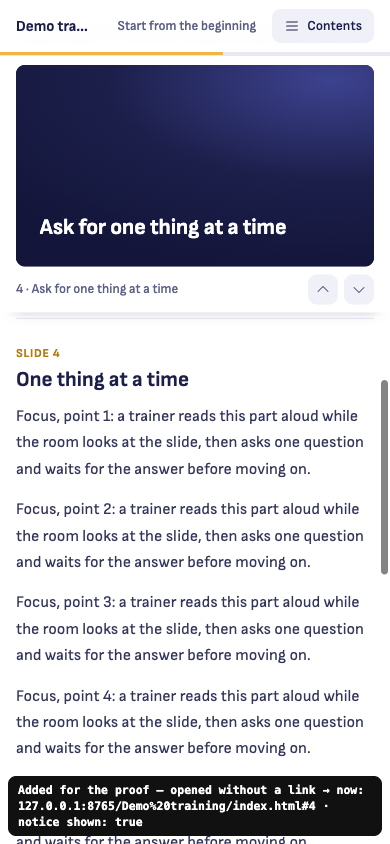
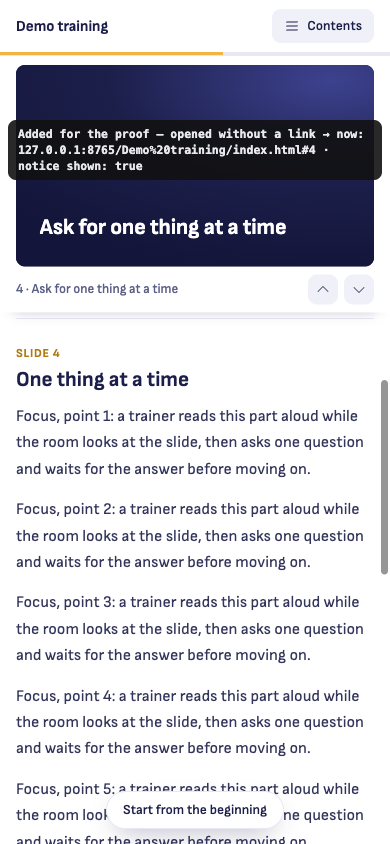
Decks page place: on a phone the notice is a pill at the bottom centre
The Experience lead's fold-in (decks README, small details 7): under 600 px "Start
from the beginning" leaves the bar, so the client's name stays whole, and shows as a
small pill at the bottom centre above the safe area. The same element, so the same
5 s and the same hold. The bar's backdrop blur would make it the pill's containing
block, so on a phone the bar is plain white (the slide's white band sits under it).
Test for the CSS; the phone shot retaken.

diff --git a/extensions/ritemark/src/decks/page/pageHtml.test.ts b/extensions/ritemark/src/decks/page/pageHtml.test.ts
@@ -15,7 +15,7 @@ import { BUILT_IN_THEME } from '../deckTheme';
 import { cssReferences, pageReferences, scriptBuildsReferences } from '../../publish/references';
 import { scanText } from '../../publish/secretScan';
 import { PAGE_FONTS } from './pageFile';
-import { DIGEST_META, PAGE_CSP, handoutHtml, isSlideOnly, pageHtml, pictureAddress, pictureFile, sanitizeHtml, type PageAssets, type PictureFrom } from './pageHtml';
+import { DIGEST_META, PAGE_CSP, PAGE_CSS, handoutHtml, isSlideOnly, pageHtml, pictureAddress, pictureFile, sanitizeHtml, type PageAssets, type PictureFrom } from './pageHtml';
 import { PAGE_SCRIPT } from './pageScript';
 import { deckDigest, publicDeck } from './publicDeck';
 import { PRIVATE_DECK, PRIVATE_WORDS, PUBLIC_WORDS } from './testing/privateDeck';
@@ -101,6 +101,17 @@ assert.equal(root.querySelector('#text')!.getAttribute('data-place')!.replace('r
 const restart = root.querySelector('.top #restart')!;
 assert.equal(restart.text, 'Start from the beginning');
 assert.ok(restart.hasAttribute('hidden') && restart.getAttribute('type') === 'button');
+// Under 600 px the notice leaves the bar (the client's name stays whole): a pill at the bottom centre, above the safe area.
+{
+  const phone = /@media \(max-width: 599px\) \{([\s\S]*?)\n\}/.exec(PAGE_CSS);
+  assert.ok(phone, 'the page has a phone rule for the notice');
+  const pill = /\.restart \{([^}]*)\}/.exec(phone![1])![1];
+  for (const rule of ['position: fixed', 'left: 50%', 'transform: translateX(-50%)', 'bottom: calc(16px + env(safe-area-inset-bottom, 0px))', 'border-radius: 18px']) assert.ok(pill.includes(rule), rule);
+  // The bar's backdrop filter would make it the pill's containing block (the pill would sit in the bar): none there.
+  assert.match(phone![1], /\.top \{[^}]*backdrop-filter: none/);
+  // At 600 px and up it stays in the bar.
+  assert.ok(!/\.restart \{[^}]*position: fixed/.test(PAGE_CSS.replace(phone![0], '')), 'only the phone rule takes it out of the bar');
+}
 // A prompt that shows a comment shows it as words.
 assert.ok(html.includes('&lt;!-- a prompt that shows a comment stays as written --&gt;'));
 

diff --git a/extensions/ritemark/src/decks/page/pageHtml.ts b/extensions/ritemark/src/decks/page/pageHtml.ts
@@ -508,6 +508,14 @@ body.bl .stage { border-right: 1px solid var(--line); padding-right: 40px; }
   .toc { top: 60px; }
   body.bl .stage { border-right: 0; padding-right: 16px; }
 }
+/* On a phone (the decks README, small details 7): the notice leaves the bar, so the client's name stays whole, and is a
+   small pill at the bottom centre, above the safe area. Same 5 s, same hold. */
+@media (max-width: 599px) {
+  /* The bar's blur would hold a fixed child inside the bar; under it on a phone is the slide's white band anyway. */
+  .top { -webkit-backdrop-filter: none; backdrop-filter: none; background: #fff; }
+  .restart { position: fixed; left: 50%; bottom: calc(16px + env(safe-area-inset-bottom, 0px)); transform: translateX(-50%); z-index: 35; height: 36px; padding: 0 16px; border-radius: 18px; background: #fff; color: var(--ink); font: 600 13.5px/36px 'Sofia Sans', sans-serif; box-shadow: 0 0 0 1px var(--line), 0 10px 26px -10px rgba(28,31,74,.45); }
+  .restart:hover { background: #fff; color: var(--ink); }
+}
 @media (prefers-reduced-motion: reduce) {
   .layer, .layer.on, body.bl .layer, body.bl .layer.on, .bar i, .part, .sect > * { transition: none; }
 }

diff --git a/docs/development/releases/v2.3.0/decks-page-remembers-place/proof/README.md b/docs/development/releases/v2.3.0/decks-page-remembers-place/proof/README.md
@@ -10,7 +10,7 @@ A screenshot doesn't include the browser's address bar, so each shot has a black
 | `2-fresh-open-returns-to-part-4-1440x900` | The bare address opened again: the page returns to part 4, the address becomes `#4`, and "Start from the beginning" shows in the bar. |
 | `3-link-opens-part-2-1440x900` | A `#2` link opened while part 4 was kept: part 2 opens, with no notice, and part 2 is now the kept place. |
 | `4-address-follows-part-4-390x844` | Shot 1 on a phone. |
-| `5-fresh-open-returns-to-part-4-390x844` | Shot 2 on a phone. The client's name gets an ellipsis while the notice shows. |
+| `5-fresh-open-returns-to-part-4-390x844` | Shot 2 on a phone (under 600 px): the notice is a pill at the bottom centre, above the safe area, and the bar keeps the client's name whole. The proof strip is at the top in this shot, so the pill can be seen. |
 | `6-link-opens-part-2-390x844` | Shot 3 on a phone. |
 
 Also checked in the same browser, without shots:
